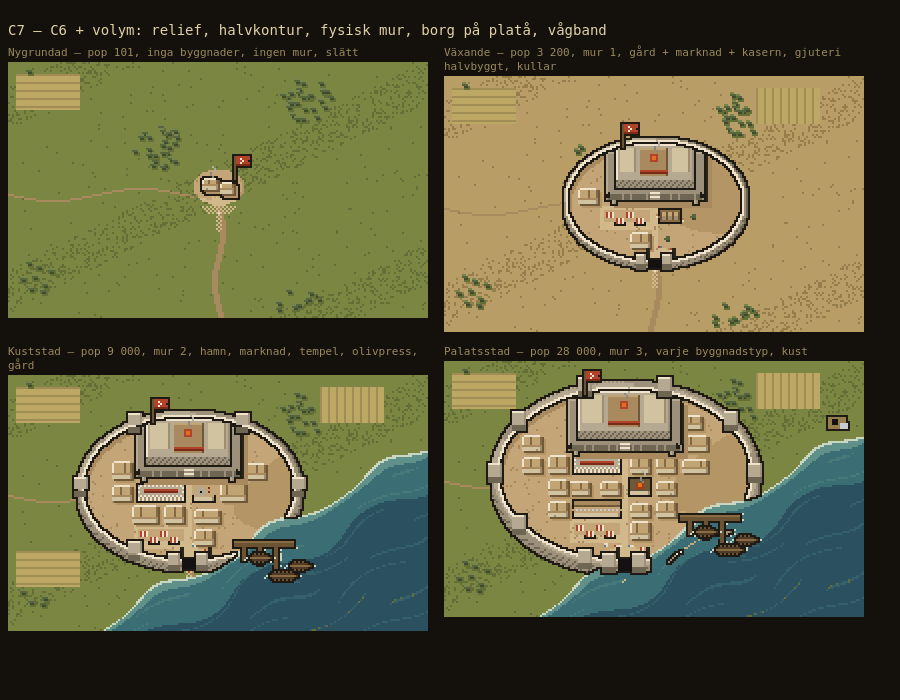
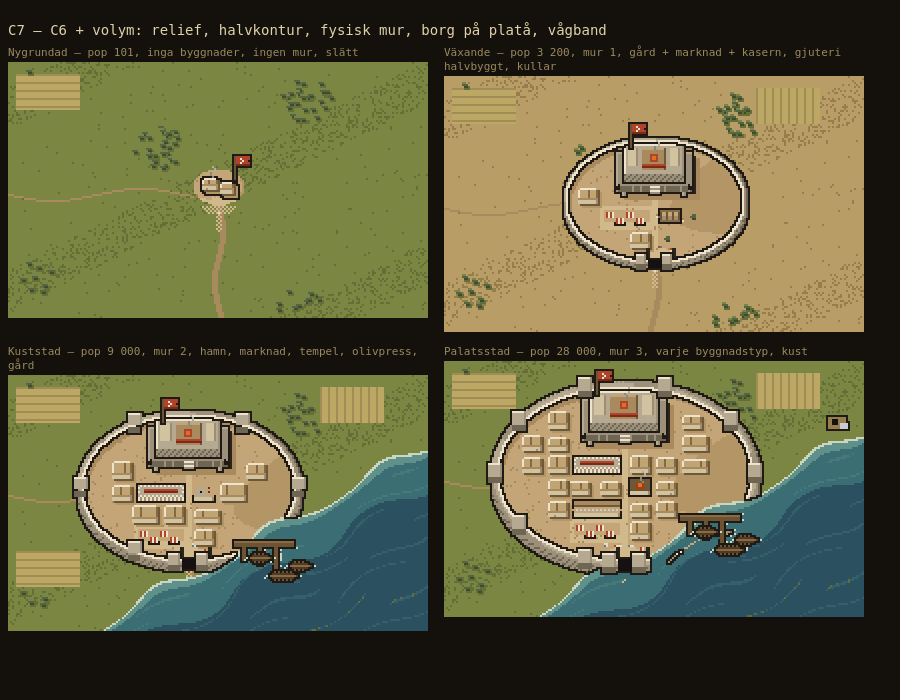
C7: mindre palats, offerrök som statuslager vid templet

Changed region(s): [[0.5911, 0.51, 0.7778, 0.66], [0.6533, 0.15, 0.8089, 0.3], [0.1244, 0.57, 0.28, 0.69]]

diff --git a/web/static/js/megaron/render/skiss/c7_plan.js b/web/static/js/megaron/render/skiss/c7_plan.js
@@ -158,7 +158,7 @@ export function draw(ctx, scene, status) {
   }
   // Borgen: större, tyngre — centrum ska läsas direkt efter muren.
   const hasCitadel = pop >= 1000;
-  const cit = hasCitadel ? { w: Math.round(28 + 18 * t), h: Math.round(14 + 6 * t) } : null;
+  const cit = hasCitadel ? { w: Math.round(24 + 10 * t), h: Math.round(13 + 3 * t) } : null;
   if (cit) {
     cit.x = cx - (cit.w >> 1); cit.y = cy - ry + 1;
     for (const c of cells) if (c.x < cit.x + cit.w + 6 && c.x + BW > cit.x - 6 && c.y < cit.y + cit.h + 12) c.used = true;
@@ -243,7 +243,7 @@ export function draw(ctx, scene, status) {
   if (cit) {
     const { x, y, w, h } = cit;
     // Platån: en lägre, bredare terrass som knyter borgen till staden.
-    const px = x - 5, pw = w + 10, py = y + 4, ph = h + 3;
+    const px = x - 4, pw = w + 8, py = y + 4, ph = h + 2;
     rect(g, px + 4, py + 3, pw, ph + 4, 'e');               // bred skugga nedre/höger
     rect(g, px + pw, py + 2, 2, ph + 2, 'G');
     inked(g, gg => {
@@ -259,7 +259,7 @@ export function draw(ctx, scene, status) {
       row(gg, x, y, w, 'P'); col(gg, x, y, h, 'P'); col(gg, x + w - 1, y, h, 'q');
       rect(gg, x, y + h, w, 4, 'q');                       // klippfoten, ditherad
       for (let i = 0; i < w; i++) for (let k = 0; k < 4; k++) if ((i + k) % 3 === 0) set(gg, x + i, y + h + k, 't');
-      const mw = 12 + Math.round(4 * t), mh = h - 4, mx = cx - (mw >> 1), my = y + 2;
+      const mw = 10 + Math.round(4 * t), mh = h - 4, mx = cx - (mw >> 1), my = y + 2;
       rect(gg, mx, my, mw, mh, 'R'); row(gg, mx, my, mw, 'M'); col(gg, mx + mw - 1, my, mh, 'r');
       row(gg, mx, my + mh - 3, mw, 'O'); row(gg, mx, my + mh - 2, mw, 'o');
       rect(gg, cx - 2, my + 3, 4, 4, 'O'); rect(gg, cx - 1, my + 4, 2, 2, 'F');
@@ -361,7 +361,8 @@ export function draw(ctx, scene, status) {
 
   // ── Liv: folk i band, rök ──
   const geo = { cx, cy, rx, ry, gate, walls, blocks, cit, specials, coastal };
-  const starving = status === 'svält';
+  const kinds = [].concat(status || []);
+  const starving = kinds.includes('svält');
   over(g, gg => {
     const nPeople = starving ? 0 : peopleBand(pop);
     let n = 0;
@@ -374,7 +375,7 @@ export function draw(ctx, scene, status) {
     if (!starving) smokes.forEach(([x, y], i) => smoke(gg, x, y, 7, i));
   });
 
-  if (status) statusLayer(g, geo, status);
+  for (const k of kinds) statusLayer(g, geo, k);
   blit(ctx, g);
 }
 
@@ -401,6 +402,24 @@ export function statusLayer(g, geo, kind) {
         row(gg, x + 2, y, 3, 'Y'); set(gg, x + 3, y - 1, 'Y'); row(gg, x + 1, y + 1, 5, 'f');
       });
       over(g, gg => { for (let k = 0; k < 12; k++) { const sx = x + 3 + Math.round(Math.sin(k / 2) * 1.5); set(gg, sx, y - 5 - k, k % 3 ? 'G' : '%'); if (k > 3) set(gg, sx + 1, y - 5 - k, 'G'); } });
+    }
+  }
+  if (kind === 'offer') {
+    // Offerrök: eld på altaret framför templet, en tjock rökpelare som står högre än härdarnas.
+    const s = specials.find(s => s.b.type === 'temple' && s.b.phase >= 1);
+    if (s) {
+      const ax = s.x + (s.w >> 1) - 1, ay = s.y + s.h + FH + 2;
+      inked(g, gg => { rect(gg, ax, ay, 3, 2, 'T'); row(gg, ax, ay + 1, 3, 'q'); set(gg, ax + 1, ay - 1, 'F'); set(gg, ax, ay - 1, 'f'); set(gg, ax + 2, ay - 1, 'f'); });
+      over(g, gg => {
+        set(gg, ax - 2, ay + 1, '@'); set(gg, ax - 2, ay + 2, '$');      // prästen vid altaret
+        for (let k = 0; k < 24; k++) {                     // pelaren vidgas och glesnar uppåt
+          const sx = ax + Math.round(k / 4 + Math.sin(k / 3)), w = 2 + (k >> 3);
+          for (let i = 0; i < w; i++) {
+            if (k > 12 && (i + k) % 2) continue;
+            set(gg, sx + i, ay - 2 - k, k < 10 ? '%' : '&');
+          }
+        }
+      });
     }
   }
   if (kind === 'belägrad') {

diff --git a/web/static/js/megaron/render/skiss/c7s_plan.js b/web/static/js/megaron/render/skiss/c7s_plan.js
@@ -1,4 +1,4 @@
 // C7 + statuslagret.
 import { draw } from './c7_plan.js';
-const STATUS = { Nygrundad: 'svält', 'Växande': 'bygge', Kuststad: 'brand', Palatsstad: 'belägrad' };
+const STATUS = { Nygrundad: 'svält', 'Växande': 'bygge', Kuststad: 'brand', Palatsstad: ['belägrad', 'offer'] };
 export const render = (ctx, scene) => draw(ctx, scene, STATUS[scene.title.split(' ')[0]] || null);
